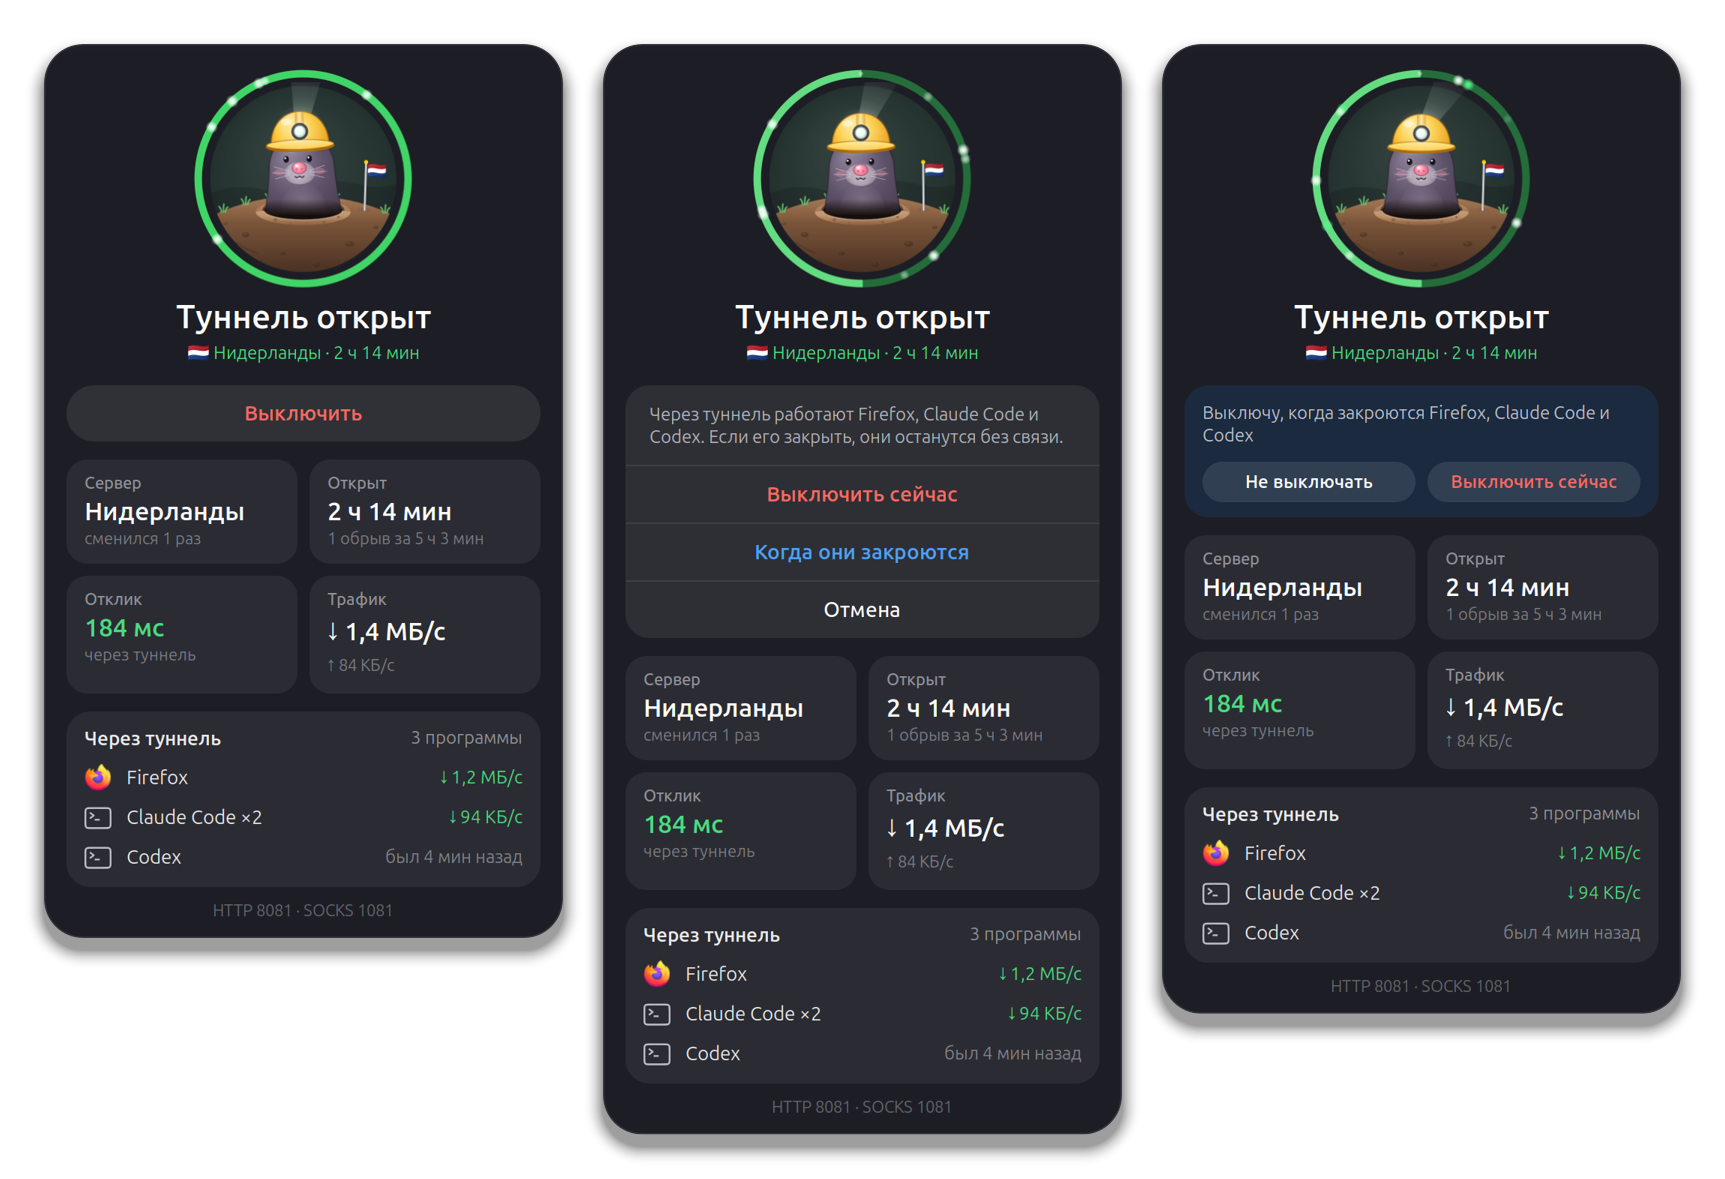
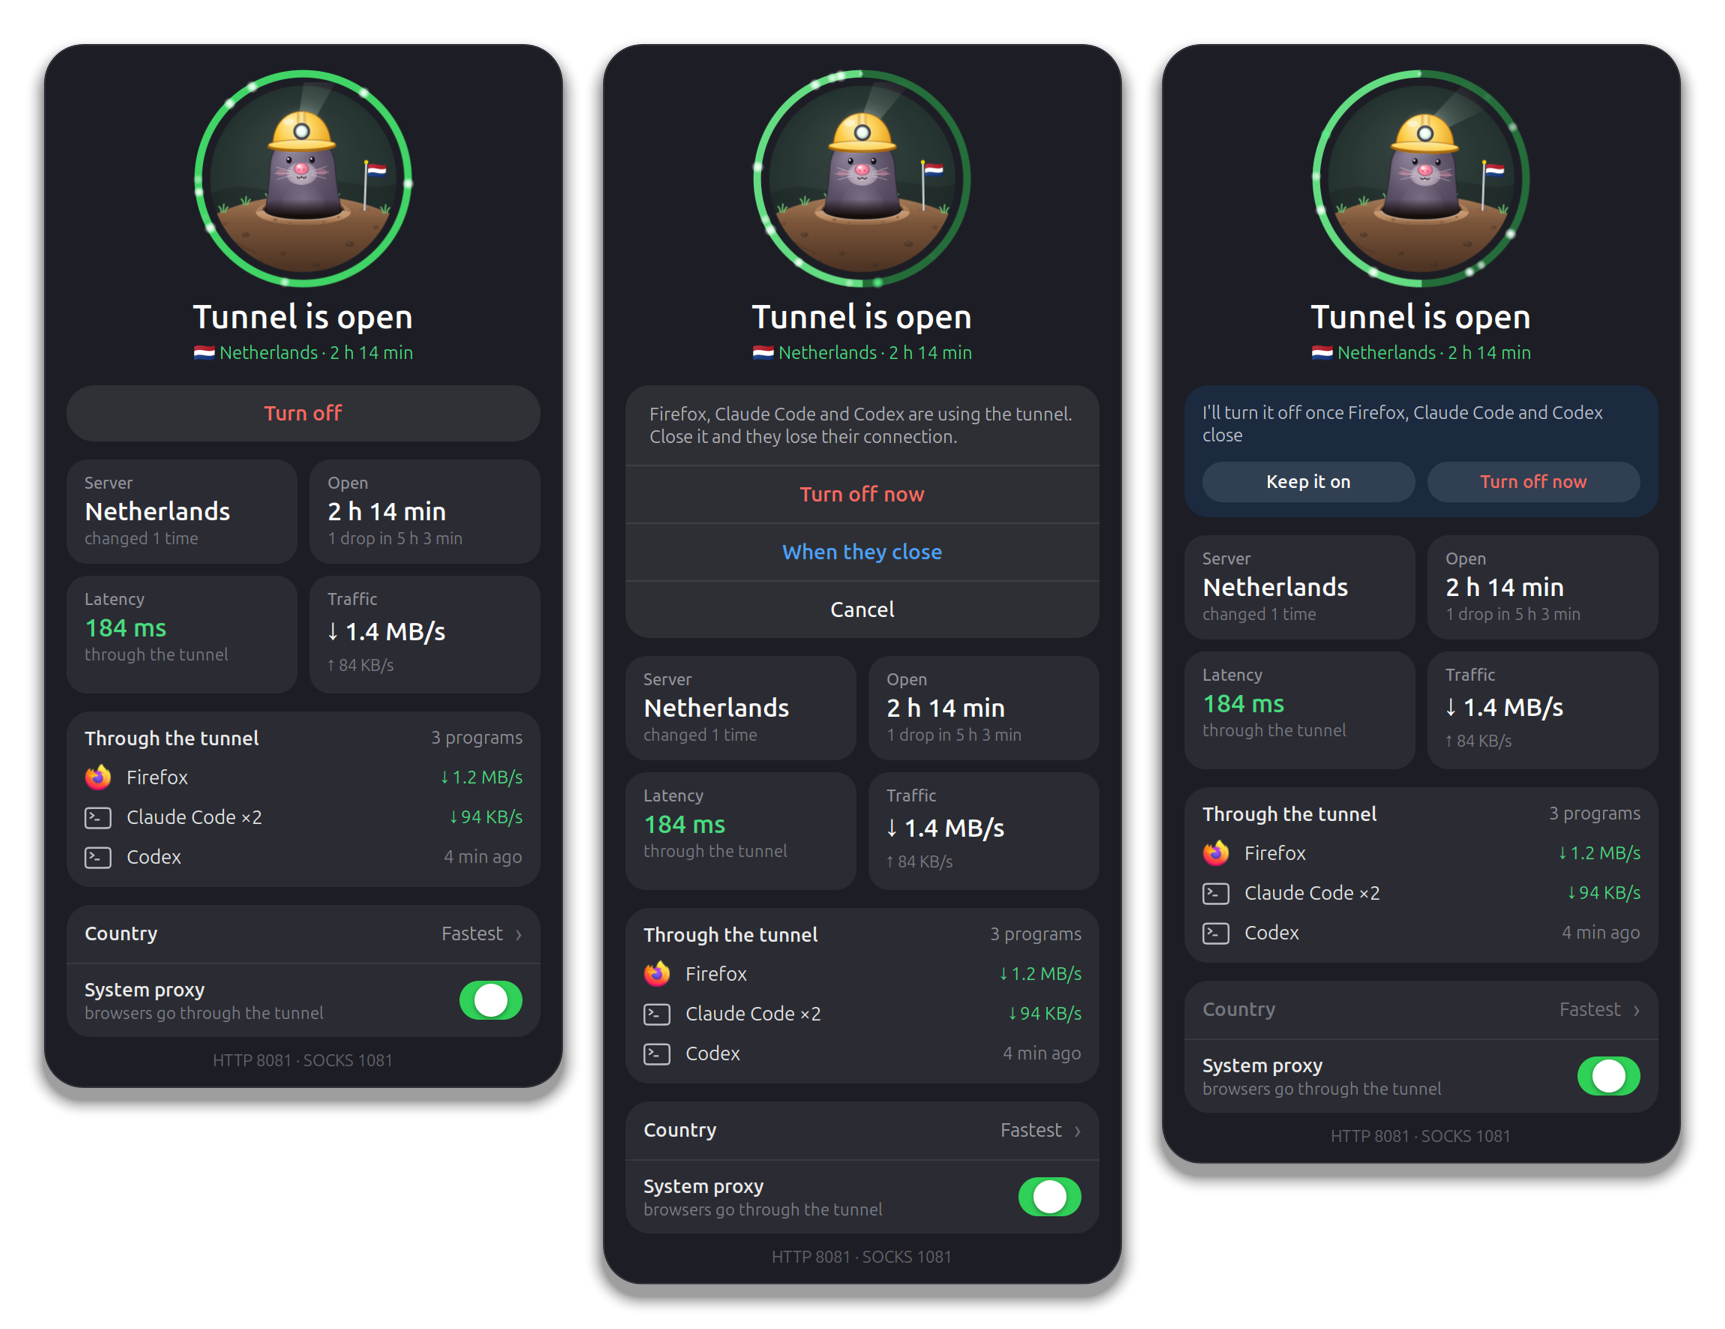
The proxy follows Psiphon at once; English media
- The system proxy is synced on every change Psiphon reports, not on
  the next second's tick: it is back the moment Psiphon is gone.
- The country list gets a scrollbar of its own instead of one over the
  right-hand chips.
- The smoke test: a real Psiphon with a fresh data folder names no
  countries on its first run, so that is checked after the switch; the
  popup is taller now, and flying dirt is no longer taken for something
  showing through the card.
- README media in English, with the country list and the Russian popup.

diff --git a/tools/media/pt-media@local/extension.js b/tools/media/pt-media@local/extension.js
@@ -31,7 +31,7 @@ const sleep = ms => new Promise(r => GLib.timeout_add(GLib.PRIORITY_DEFAULT, ms,
 const log = m => console.log(`[pt-media] ${m}`);
 const now = () => GLib.get_monotonic_time() / 1000;
 const meta = {checks: {}};
-const TALL = 1500;      // taller than the popup ever gets, at 2x
+const TALL = 1900;      // taller than the popup ever gets, at 2x
 
 function check(name, ok, detail = '') {
     meta.checks[name] = !!ok;
@@ -138,7 +138,7 @@ export default class Media extends Extension {
         log(`paths: ${JSON.stringify(ps().paths)}`);
         check('starts off', ps().state === 'off', ps().state);
         check('speaks the language it was set to', me._settings.get_string('language') === L.code &&
-            me._card._title.text === L.titles.off, me._card._title.text);
+            ind().accessible_name === L.a11y.off, ind().accessible_name);
         check('system proxy left alone by default', proxy.get_string('mode') === 'none', proxyNow());
 
         // a timeline of states, as the panel sees them
@@ -154,6 +154,7 @@ export default class Media extends Extension {
         ind().menu.open();
         await sleep(1500);
         await shot('card_off', box());
+        check('the popup too', me._card._title.text === L.titles.off, me._card._title.text);
 
         // Turn on
         let t0 = now();
@@ -183,15 +184,17 @@ export default class Media extends Extension {
             held &&= proxy.get_string('mode') === 'manual';
             return GLib.SOURCE_CONTINUE;
         });
-        // through the popup, the way a click goes: the country row, then the chip
+        // through the popup, the way a click goes: the country row, then the chip.
+        // A real Psiphon with a fresh data folder names no countries on its
+        // first run: the list is the built-in one until it does.
         me._card._countryRow.emit('clicked', 1);
         await sleep(1200);
-        check('the list shows the countries Psiphon offers', me._card._picker.visible &&
-            ps().log.regions.includes('DE'), ps().log.regions.join());
-        await shot('card_picker', box());
         const chips = [];
         const walk = a => a.get_children().forEach(c => (c.accessible_name === L.region('DE') ? chips.push(c) : walk(c)));
         walk(me._card._chips);
+        check('the country list opens', me._card._picker.visible && chips.length === 1,
+            ps().log.regions.join() || 'built-in');
+        await shot('card_picker', box());
         t0 = now();
         chips[0]?.emit('clicked', 1);
         const switching = await until(() => me._switching === 'DE', 3000, 20);
@@ -205,6 +208,10 @@ export default class Media extends Extension {
         check('country written to client.conf', JSON.parse(cat(ps().paths.conf)).EgressRegion === 'DE');
         check('system proxy kept through the switch', held && proxy.get_string('mode') === 'manual', proxyNow());
         check('new Psiphon, new pid file', ps().proc?.pid !== pid && cat(ps().paths.pidfile) === String(ps().proc?.pid));
+        // with a server list in its data folder now, it says which countries it has
+        check('Psiphon names its countries', await until(() => ps().log.regions.includes('DE'), 20000),
+            `${ps().log.regions.length}: ${ps().log.regions.join()}`);
+        check('and the list keeps them', me._state.regions?.join() === ps().log.regions.join());
         pid = ps().proc?.pid;
         await sleep(2000);
         await shot('card_de', box());
@@ -275,6 +282,7 @@ export default class Media extends Extension {
         check('Psiphon said goodbye', ps().log.exited);
         check('pid file removed', !GLib.file_test(ps().paths.pidfile, GLib.FileTest.EXISTS));
         check('told about it', notifications().includes(L.notify.closedTitle), JSON.stringify(notifications()));
+        // at once, not on the next tick
         check('system proxy put back once Psiphon is gone', proxy.get_string('mode') === 'none' &&
             proxyHttp.get_string('host') === '', proxyNow());
         ind().menu.open();

diff --git a/tools/media/compose.js b/tools/media/compose.js
@@ -19,14 +19,15 @@ const meta = JSON.parse(decoder.decode(GLib.file_get_contents(`${src}/meta.json`
 const load = name => Cairo.ImageSurface.createFromPNG(`${src}/${name}.png`);
 
 // The card is not fully opaque. Beside the mole it holds nothing but its own
-// background, so any pattern there is something showing through.
+// background, so any pattern there is something showing through. Dirt flying
+// out of the hole comes 132 px close to the edge, so the strips stop short.
 function assertPlain(name) {
     const pb = GdkPixbuf.Pixbuf.new_from_file(`${src}/${name}.png`);
     const px = pb.get_pixels(), stride = pb.get_rowstride(), n = pb.get_n_channels();
     const w = pb.get_width();
     const ref = px.slice(60 * stride + 16 * n, 60 * stride + 16 * n + 3);
     for (let y = 60; y < 330; y++) {
-        for (const [x0, x1] of [[16, 140], [w - 140, w - 16]]) {
+        for (const [x0, x1] of [[16, 120], [w - 120, w - 16]]) {
             for (let x = x0; x < x1; x++) {
                 const i = y * stride + x * n;
                 if (Math.max(...[0, 1, 2].map(c => Math.abs(px[i + c] - ref[c]))) > 1)

diff --git a/psiphon-tunnel@terentiy/extension.js b/psiphon-tunnel@terentiy/extension.js
@@ -112,7 +112,11 @@ export default class PsiphonTunnelExtension extends Extension {
         this._icons = new Map();
 
         const self = new Gio.Credentials().get_unix_pid();
-        this._psiphon = new Psiphon(defaultPaths(this._home), () => this._refresh());
+        // the proxy follows Psiphon at once, not on the next tick
+        this._psiphon = new Psiphon(defaultPaths(this._home), () => {
+            this._syncProxy();
+            this._refresh();
+        });
         this._users = new Users({
             self,
             exclude: () => this._psiphon ? [this._psiphon.proc?.pid, ...this._psiphon.extra.map(p => p.pid)] : [],
@@ -348,6 +352,8 @@ export default class PsiphonTunnelExtension extends Extension {
 
     _syncProxy() {
         const ps = this._psiphon;
+        if (!ps)
+            return;
         const plan = proxyPlan({
             want: this._settings.get_boolean('system-proxy'),
             state: ps.state,

diff --git a/psiphon-tunnel@terentiy/card.js b/psiphon-tunnel@terentiy/card.js
@@ -177,7 +177,7 @@ class Card extends St.BoxLayout {
             style_class: 'pt-picker-scroll',
             hscrollbar_policy: St.PolicyType.NEVER,
             vscrollbar_policy: St.PolicyType.AUTOMATIC,
-            overlay_scrollbars: true,
+            overlay_scrollbars: false,     // a bar of its own, not over the right-hand chips
             child: this._chips,
         });
         this._pickerNote = wrap(new St.Label({style_class: 'pt-picker-note'}));
